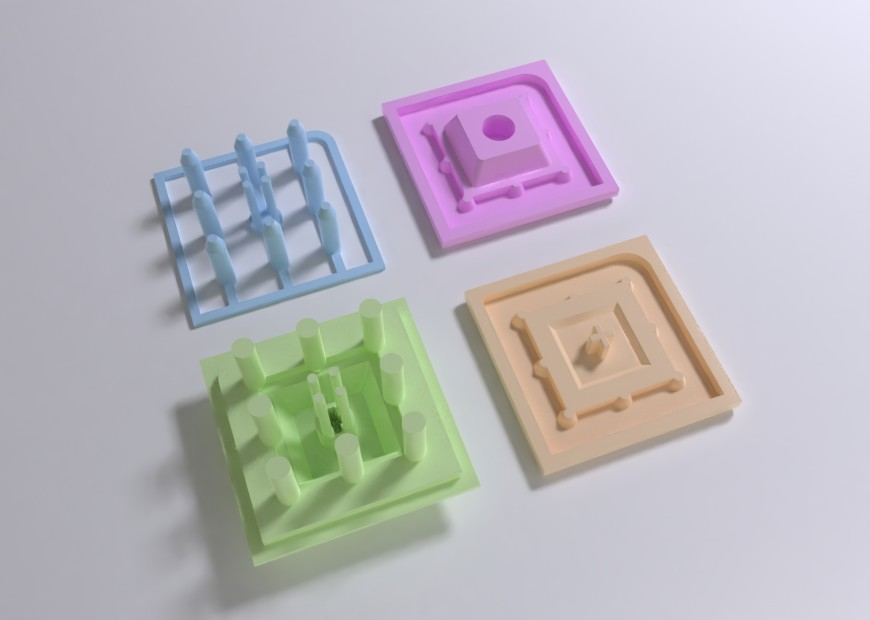
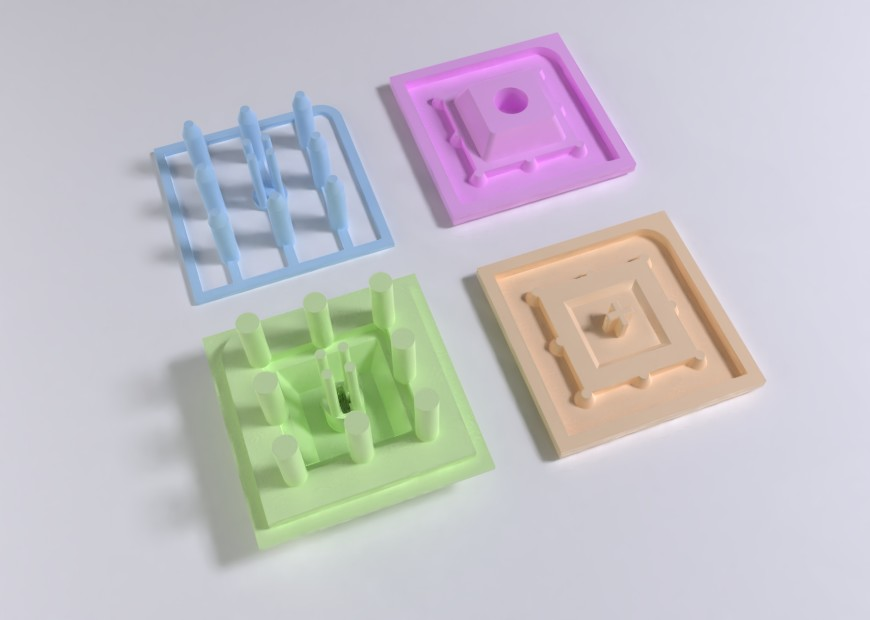
Add container STLs with interlocking clips.

diff --git a/render/render.py b/render/render.py
@@ -136,6 +136,49 @@ def arrange_objects(objects):
 
 
 
+def load_objects(name):
+    if name[-3:] in ("-mx", "-al"):
+        objects = [
+            load_obj(
+                f"stl/z-butt-{name}-sculpt-base.stl",
+                name="Sculpt Base",
+                color=(1.0, 0.5, 1.0)
+            ),
+            load_obj(
+                f"stl/z-butt-{name}-master-base.stl",
+                name="Master Base",
+                color=(1.0, 0.75, 0.5)
+            ),
+            load_obj(
+                f"stl/z-butt-{name}-sprues-only.stl",
+                name="Sprues Only",
+                color=(0.5, 0.75, 1.0)
+            ),
+            load_obj(
+                f"stl/z-butt-{name}-stem-cavity.stl",
+                name="Stem Cavity",
+                color=(0.75, 1.0, 0.5)
+            ),
+        ]
+
+        arrange_objects(objects)
+    else:
+        back = load_obj(
+            f"stl/z-butt-{name}-container.stl",
+            name="Sculpt Base",
+            color=(0.75, 0.125, 0.125)
+        )
+        back.location.y += SPACING
+
+        front = load_obj(
+            f"stl/z-butt-{name}-container.stl",
+            name="Sculpt Base",
+            color=(0.75, 0.125, 0.125)
+        )
+        front.location.y -= SPACING
+        front.rotation_euler.z = math.radians(180)
+
+
 def main():
     while sys.argv:
         v = sys.argv.pop(0)
@@ -167,9 +210,9 @@ def main():
         type=float, default=100,
         help="Camera distance.")
     parser.add_argument(
-        "--aim-y", "-Y",
+        "--aim-z", "-z",
         type=float, default=0,
-        help="Camera aim Y.")
+        help="Camera aim Z.")
 
     parser.add_argument(
         "--name", "-n",
@@ -208,39 +251,16 @@ def main():
     bpy.data.objects['Camera'].select = False
     bpy.ops.object.delete()
 
-    objects = [
-        load_obj(
-            f"stl/z-butt-{args.name}-sculpt-base.stl",
-            name="Sculpt Base",
-            color=(1.0, 0.5, 1.0)
-        ),
-        load_obj(
-            f"stl/z-butt-{args.name}-master-base.stl",
-            name="Master Base",
-            color=(1.0, 0.75, 0.5)
-        ),
-        load_obj(
-            f"stl/z-butt-{args.name}-sprues-only.stl",
-            name="Sprues Only",
-            color=(0.5, 0.75, 1.0)
-        ),
-        load_obj(
-            f"stl/z-butt-{args.name}-stem-cavity.stl",
-            name="Stem Cavity",
-            color=(0.75, 1.0, 0.5)
-        ),
-    ]
-
-    arrange_objects(objects)
+    load_objects(args.name);
 
     create_area_lamp(
-        name="Area Key", location=(250, 100, 300),
+        name="Area Key", location=(250, -100, 300),
         size=100, strength=3000, color=(1, 1, 1.2, 1))
     create_area_lamp(
-        name="Area Fill", location=(40, -200, 40),
+        name="Area Fill", location=(-200, 0, 80),
         size=200, strength=750, color=(1, 1, 1.1, 1))
     create_area_lamp(
-        name="Area Rim", location=(-400, 0, 20),
+        name="Area Rim", location=(-300, 300, 80),
         size=10, strength=2000, color=(1.1, 1.1, 1, 1))
 
     bpy.ops.mesh.primitive_plane_add(
@@ -260,11 +280,11 @@ def main():
 
     field_of_view = 50.0
 
-    tz = -math.sin(math.radians(args.tilt)) * args.distance
+    tz = args.aim_z - math.sin(math.radians(args.tilt)) * args.distance
     out = math.cos(math.radians(args.tilt)) * args.distance
 
     tx = math.sin(math.radians(args.pan)) * out
-    ty = args.aim_y - math.cos(math.radians(args.pan)) * out
+    ty = -math.cos(math.radians(args.pan)) * out
 
     scene.camera.data.angle = math.radians(field_of_view)
     scene.camera.rotation_mode = 'XYZ'

diff --git a/README.md b/README.md
@@ -17,6 +17,8 @@ STL models are available for download in the [releases](https://github.com/yatar
 
 ![Z-Butt OpenSCAD 7u MX](img/z-butt-7u-mx.jpg)
 
+![Z-Butt OpenSCAD 1u Container](img/z-butt-1u-container.jpg)
+
 
 ## Compatibility
 
